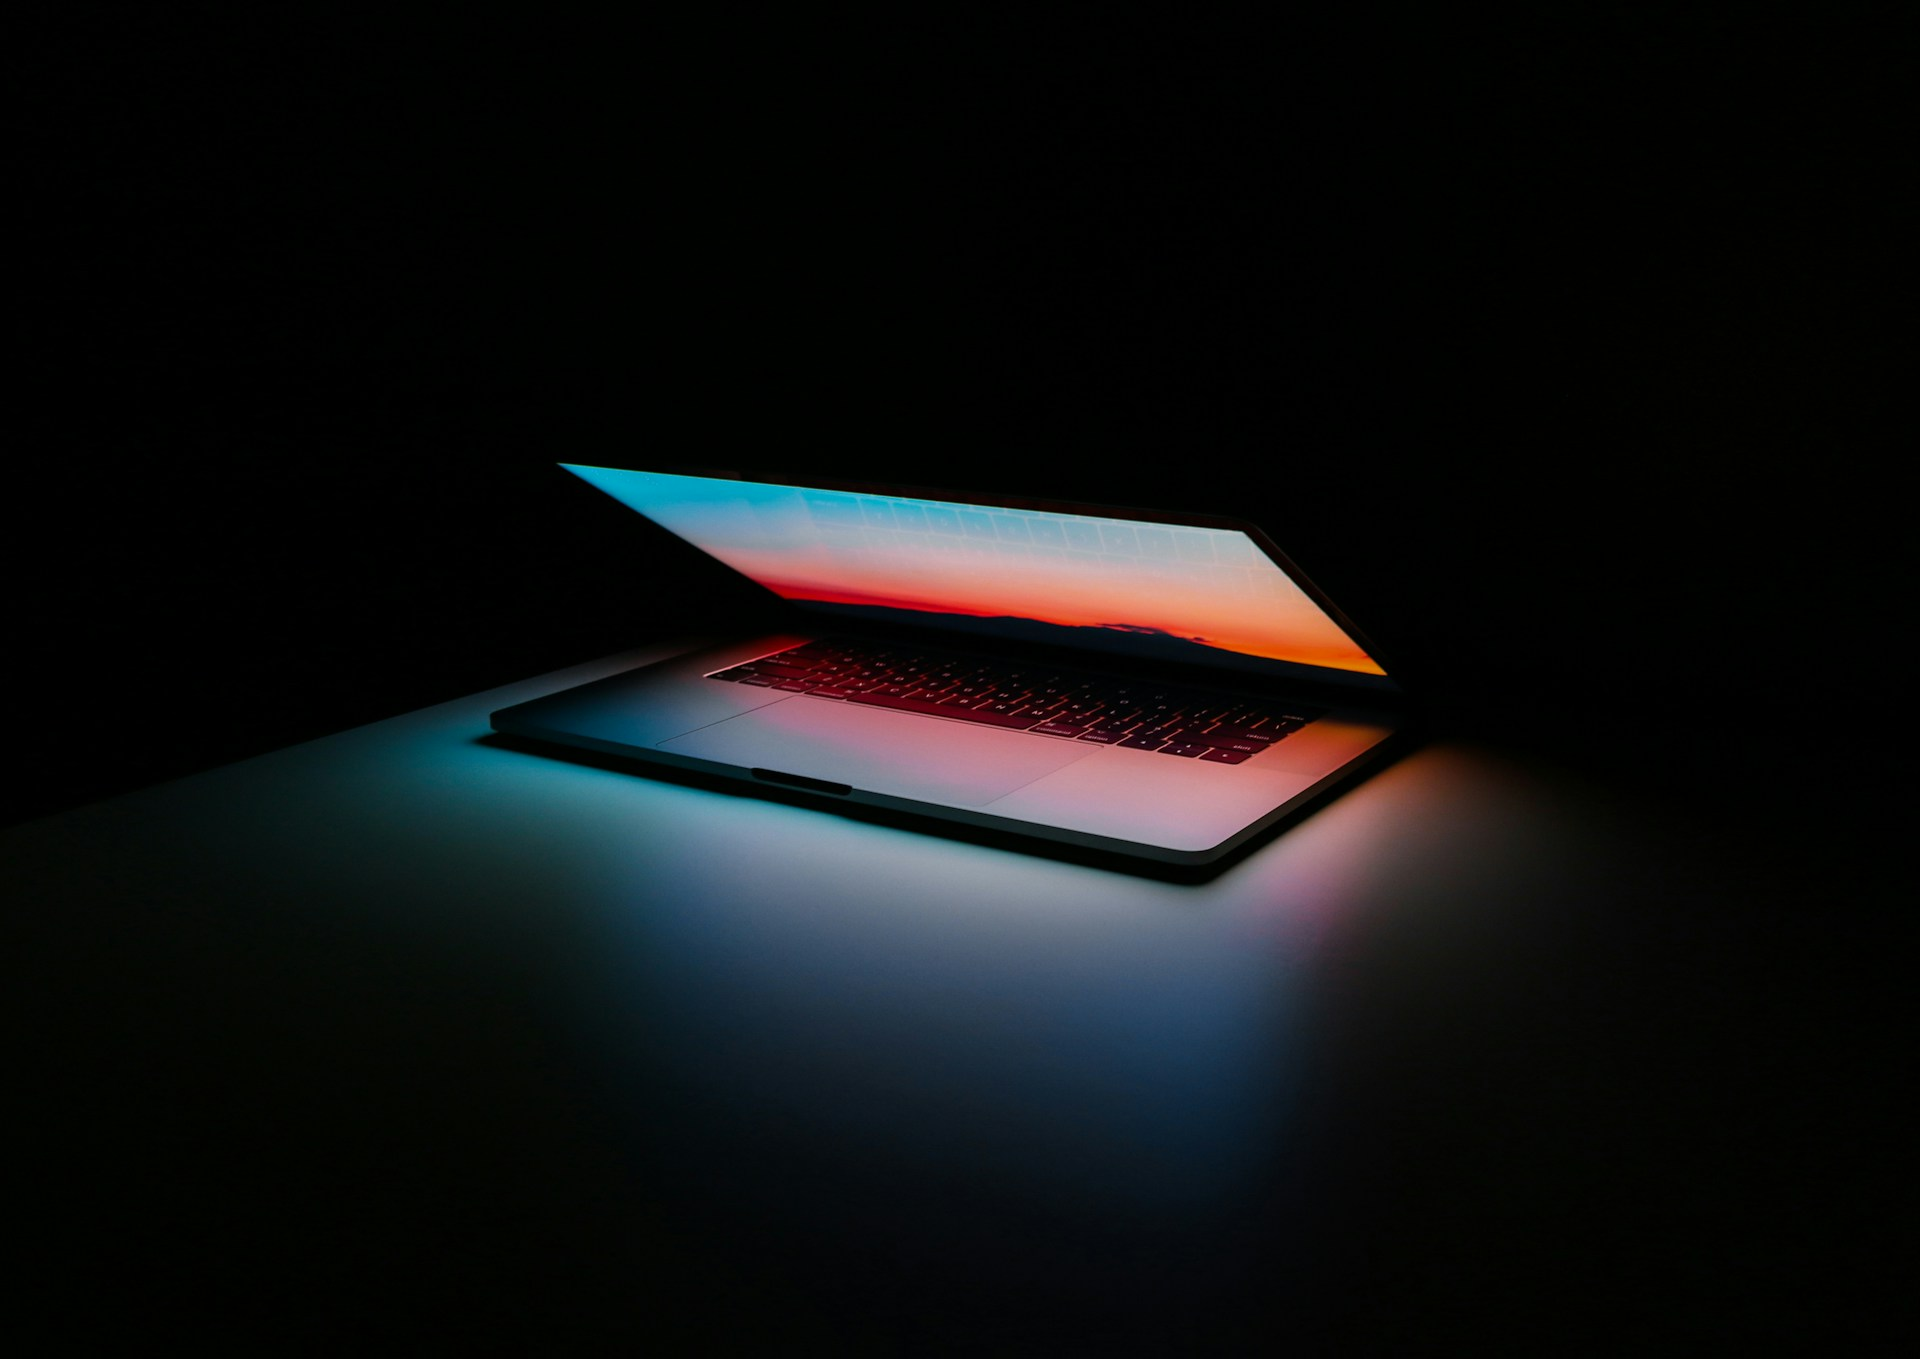
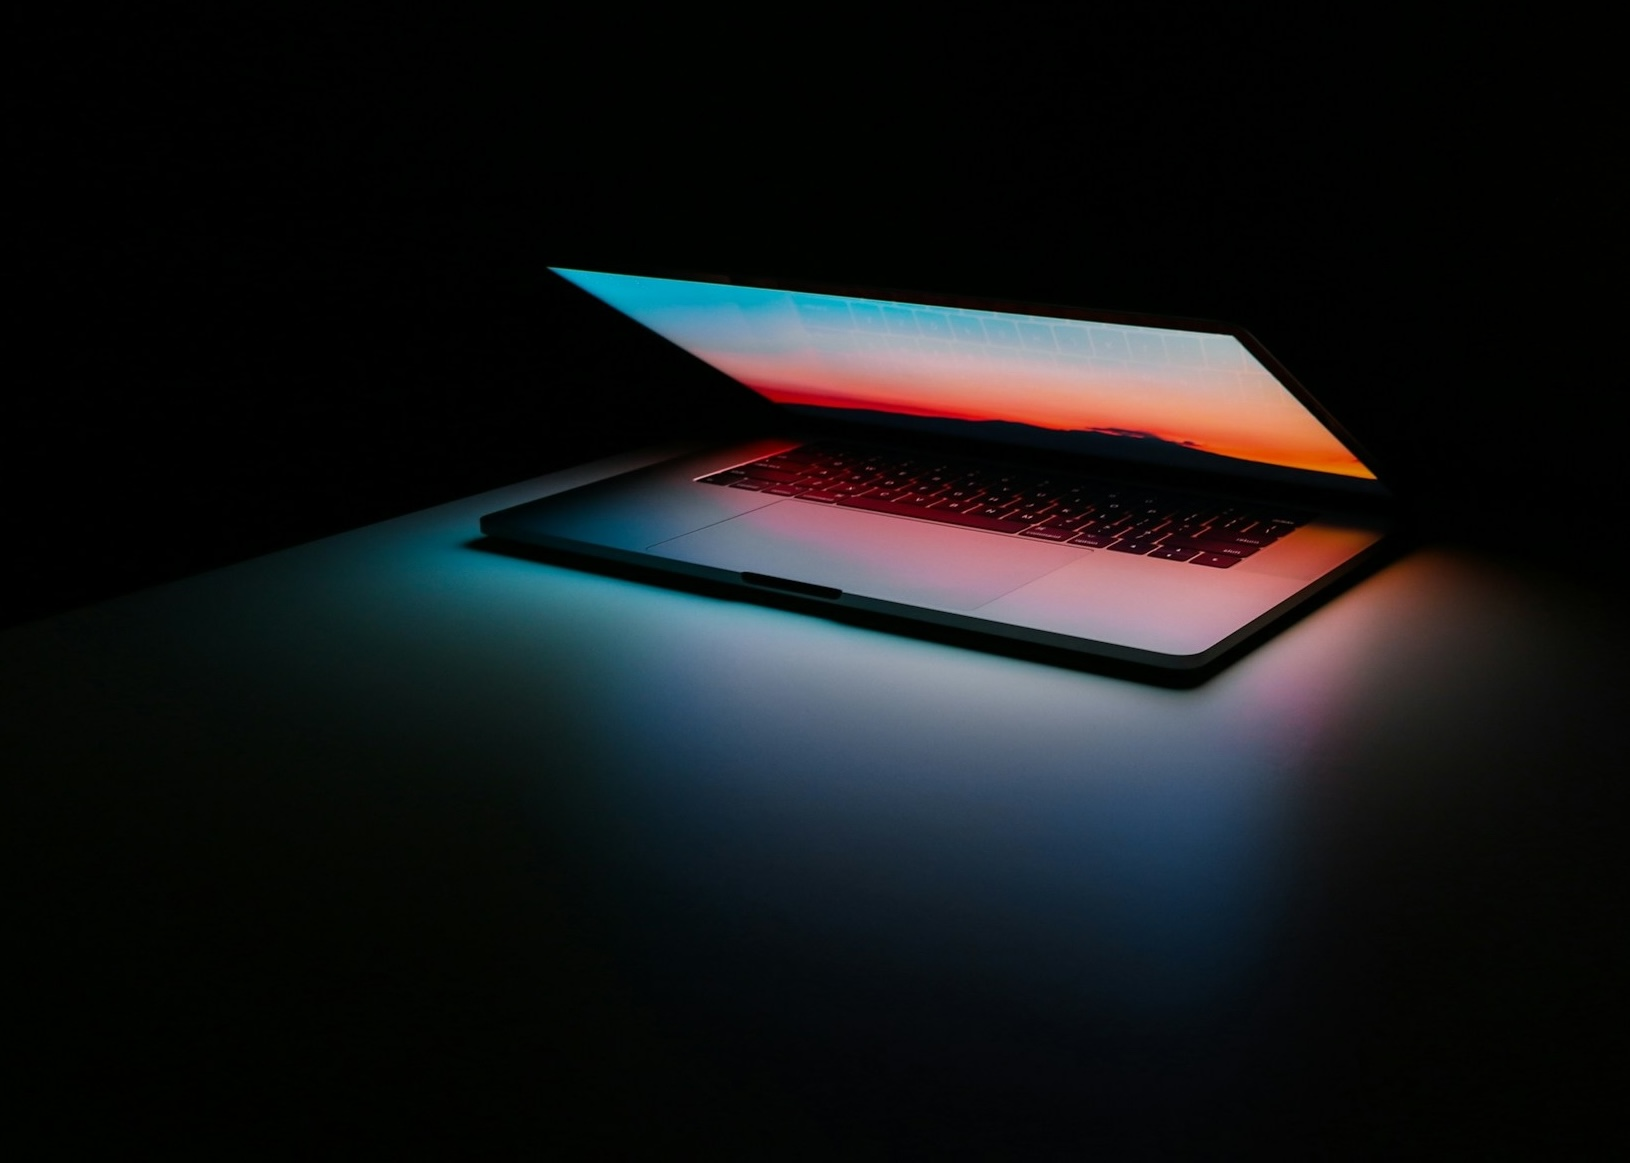
style: add intro image and styling intro page

Changed region(s): [[0.1534, 0.2167, 0.9509, 0.8667]]

diff --git a/components/Intro/Intro.module.css b/components/Intro/Intro.module.css
@@ -10,31 +10,34 @@
 
 .headerName {
   font-size: 6rem;
-  margin: 0;
   letter-spacing: 4px;
   font-weight: 600;
-  color: #ffffff;
-  background: linear-gradient(90deg, #62e6e4 10%, #6a83e7 40%, #ff6ec4 70%, #fffde4 100%);
+  background: linear-gradient(
+    90deg,
+    #62e6e4bd 10%,
+    #6a83e7b2 40%,
+    #ff6ec59e 70%,
+    #fffde48a 100%
+  );
   -webkit-background-clip: text;
   -webkit-text-fill-color: transparent;
-  animation: radiance-glow 4s ease-in-out infinite alternate;
+  animation: radiance-glow 10s ease-in-out infinite alternate;
 }
 
 @keyframes radiance-glow {
-  0% {
-    filter: drop-shadow(0 0 8px #62e6e4) drop-shadow(0 0 15px #849bfa);
+  5% {
+    filter: drop-shadow(0 0 5px #62e6e49d) drop-shadow(0 0 10px #849bfa);
   }
-  50% {
-    filter: drop-shadow(0 0 16px #ff6ec4) drop-shadow(0 0 24px #fffde4);
+  30% {
+    filter: drop-shadow(0 0 10px #ff6ec583) drop-shadow(0 0 20px #fffde4);
   }
-  100% {
-    filter: drop-shadow(0 0 8px #62e6e4) drop-shadow(0 0 15px #849bfa);
+  80% {
+    filter: drop-shadow( 0 5px #62e6e46b) drop-shadow(0 0 15px #849bfa);
   }
 }
 
 .statusName {
   font-size: 2rem;
-  margin-top: 0.5rem;
   font-weight: 400;
   color: #d4c7b0;
 }
@@ -43,76 +46,54 @@
   max-width: 600px;
   margin: 1rem 0 3rem 0;
   line-height: 1.6;
-  font-size: 1.7rem;
+  font-size: 1.5rem;
   color: #e0e0e0;
 }
 
+.introImage {
+  max-width: 600px;
+}
+
 .readMoreBtn {
-  background-color: #3d362f;
-  color: white;
+  background-color: #000000;
+  color: rgb(198, 198, 198);
   border: none;
-  padding: 12px 30px;
-  font-size: 0.9rem;
-  font-weight: 500;
-  letter-spacing: 2px;
+  padding: 1rem;
+  font-size: 1rem;
+  font-weight: 550;
+  letter-spacing: 1px;
   cursor: pointer;
-  transition: background 0.3s ease;
   border-radius: 9rem;
-  box-shadow: 0 2px 30px rgba(140, 206, 209, 0.762);
-}
-
-.iconsTitle {
-  color: white;
-  font-size: 2rem;
-}
-
-.iconsContent {
-  display: grid;
-  grid-template-columns: repeat(2, auto);
-  grid-template-rows: repeat(2, auto);
-  justify-content: center;
-  align-content: center;
-  gap: 6rem;
-  padding: 5rem;
-  font-size: 7rem;
-}
-
-.faInstagram {
-  background: radial-gradient(
-    circle at 30% 107%,
-    #fdf497 0%,
-    #fdf497 5%,
-    #fd5949 45%,
-    #d6249f 60%,
-    #285aeb 90%
-  );
-  border-radius: 1.5rem;
-  color: white;
-  padding: 5px;
-}
-
-.faLinkedIn {
-  color: #0077b5;
-}
-
-.faGithub,
-.faThreads {
-  color: #ffffff;
-}
-
-.iconsContent a {
-  text-decoration: none;
-  transition:
-    transform 0.2s ease,
-    opacity 0.2s ease;
-}
-
-.iconsContent a:hover {
-  transform: translateY(-10px);
-  filter: drop-shadow(0 0 15px rgba(166, 93, 231, 0.969));
-  opacity: 0.4;
+  transition: opacity 0.3s ease;
+  box-shadow: 0 0.5px 3px rgba(222, 174, 213, 0.701);
 }
 
 .readMoreBtn:hover {
   background-color: #524a41;
+}
+
+/* 2500px+ screens */
+@media (min-width: 2100px) {
+  .intro {
+    padding: 0 10%;
+    gap: 50px;
+  }
+  .headerName {
+    font-size: 8rem;
+  }
+  .statusName {
+    font-size: 3rem;
+  }
+  .introPara {
+    font-size: 2rem;
+    max-width: 800px;
+    margin-bottom: 6rem;
+  }
+  .introImage {
+    max-width: 1000px;
+  }
+  .readMoreBtn {
+    padding: 1.2rem 2rem;
+    font-size: 1.2rem;
+  }
 }

diff --git a/components/Intro/Intro.jsx b/components/Intro/Intro.jsx
@@ -2,6 +2,7 @@ import { FaInstagram, FaLinkedin, FaGithub } from "react-icons/fa";
 import { FaThreads } from "react-icons/fa6";
 import { Link } from 'react-scroll';
 import styles from "./Intro.module.css";
+import imageintro from '../../public/images/Image-intro.jpg'
 
 function Intro() {
   return (
@@ -21,35 +22,8 @@ function Intro() {
           className={styles.readMoreBtn}
         >READ MORE</Link>
       </div>
-      <div className={styles.iconsContent}>
-        <a
-          href="https://instagram.com/manautunjae"
-          target="_blank"
-          rel="noopener noreferrer"
-        >
-          <FaInstagram className={styles.faInstagram} />
-        </a>
-        <a
-          href="https://linkedin.com/in/manau-tunjae-7125b730a"
-          target="_blank"
-          rel="noopener noreferrer"
-        >
-          <FaLinkedin className={styles.faLinkedIn} />
-        </a>
-        <a
-          href="https://github.com/ManauTunjae"
-          target="_blank"
-          rel="noopener noreferrer"
-        >
-          <FaGithub className={styles.faGithub} />
-        </a>
-        <a
-          href="https://threads.net/@manautunjae"
-          target="_blank"
-          rel="noopener noreferrer"
-        >
-          <FaThreads className={styles.faThreads} />
-        </a>
+      <div className={styles.imageContent}>
+        <img src={imageintro} alt="intro-imgae" className={styles.introImage} />
       </div>
     </section>
   );
